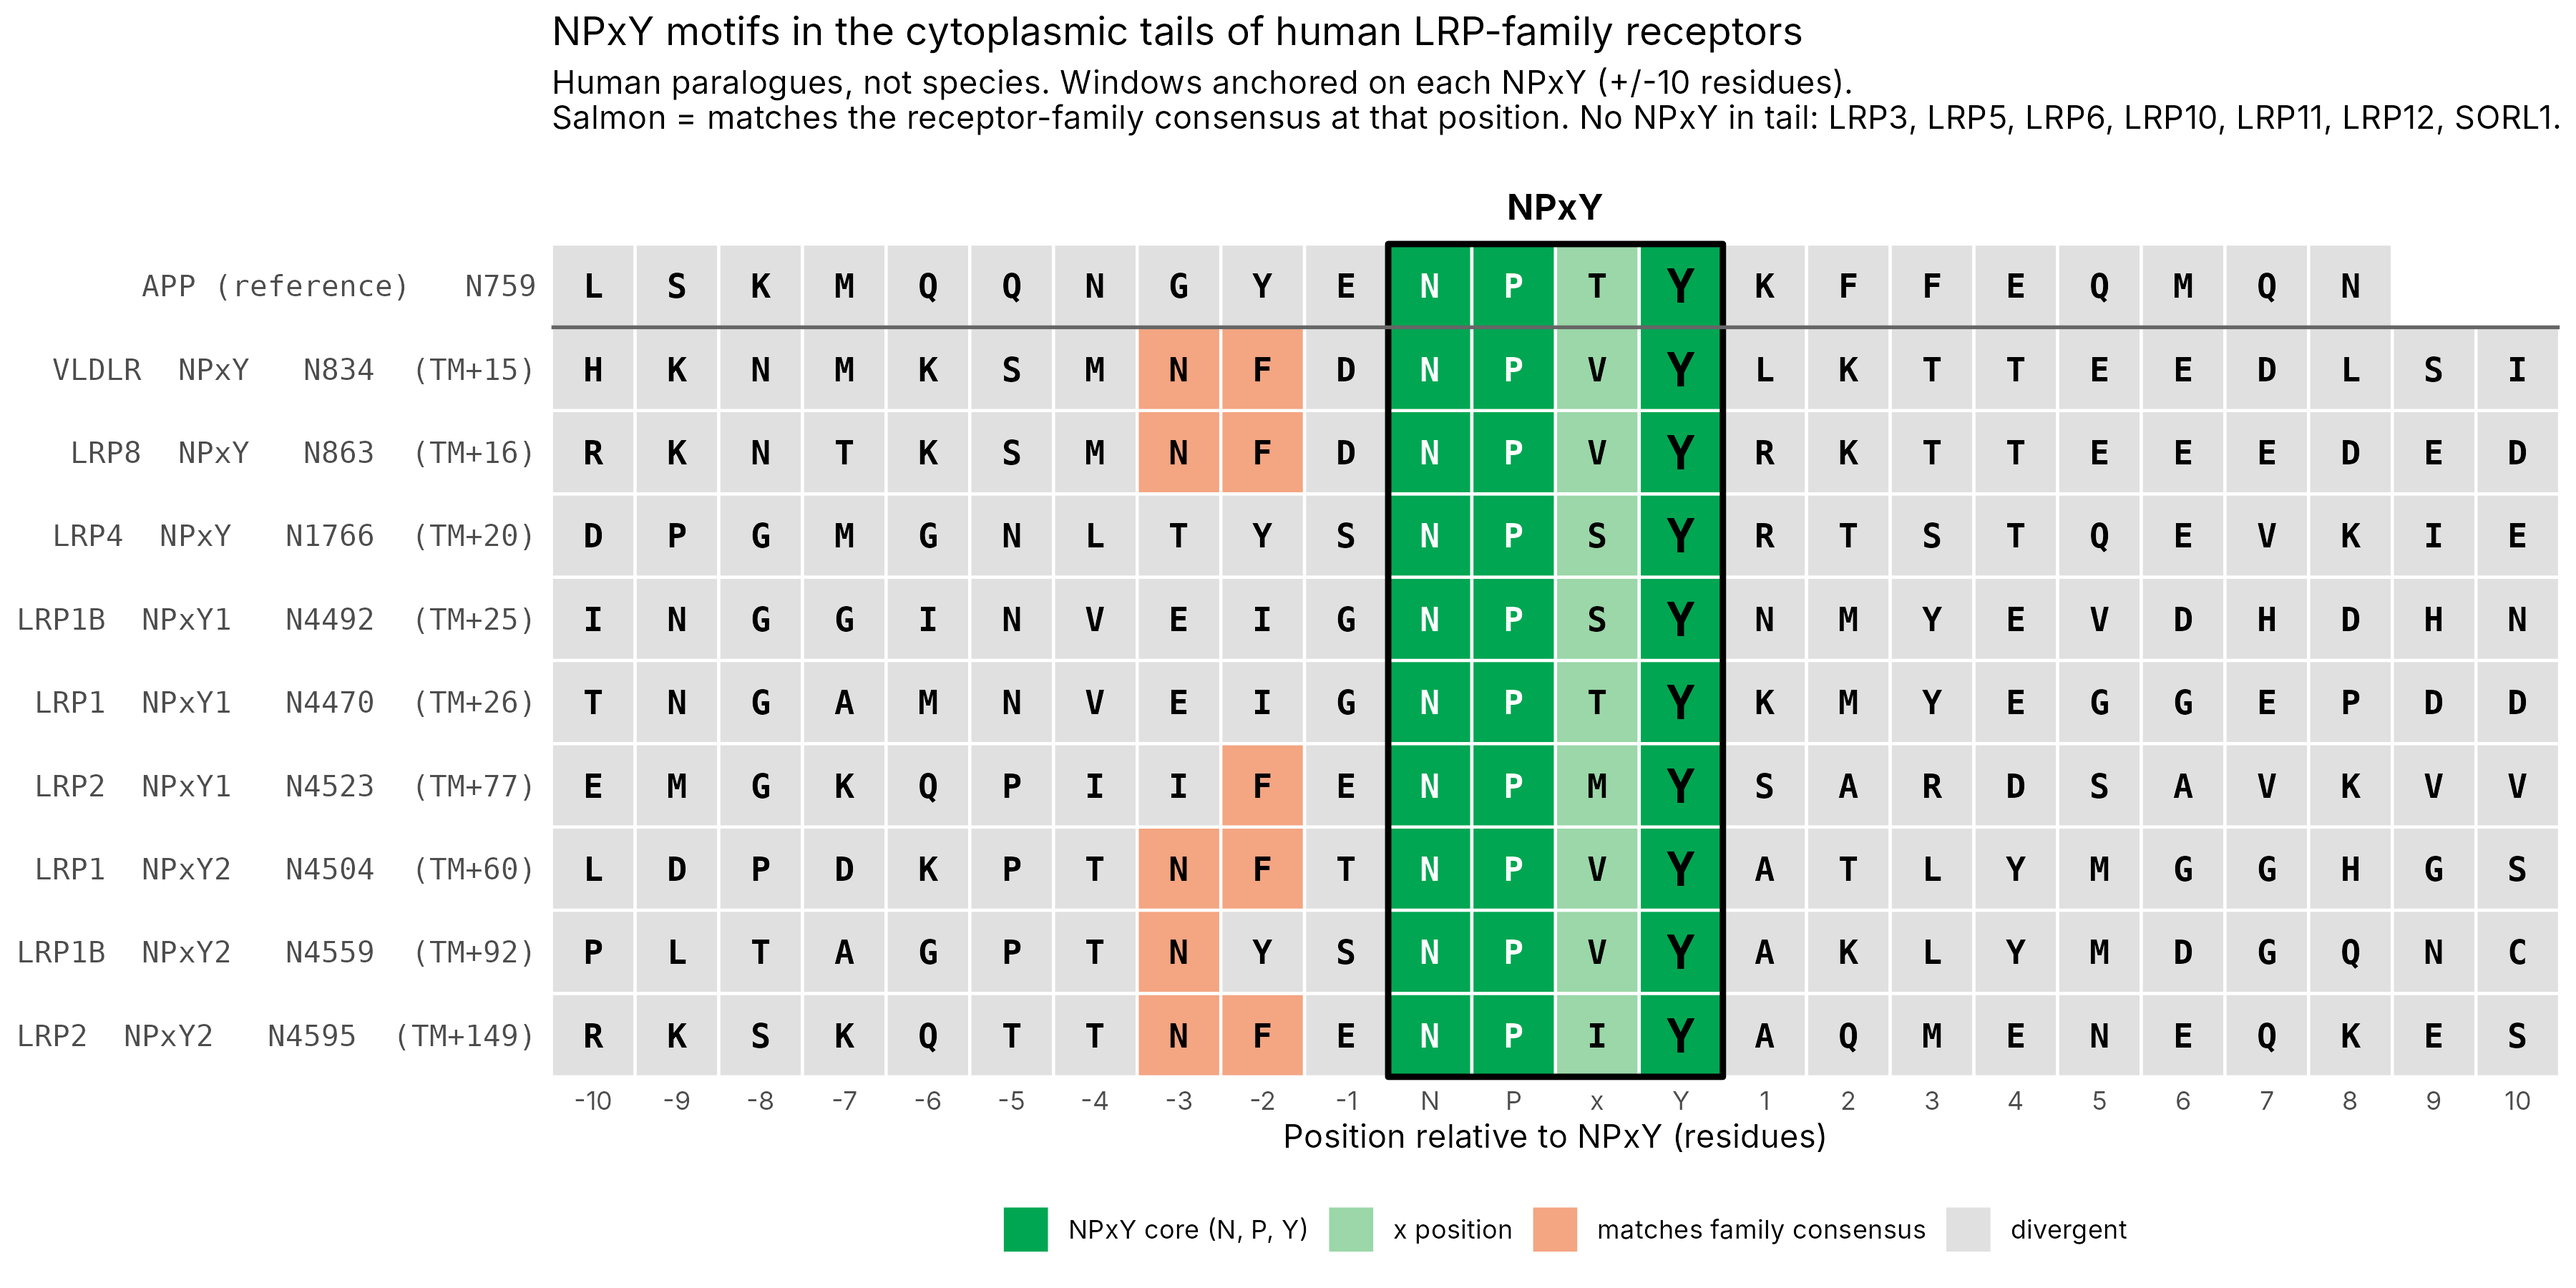
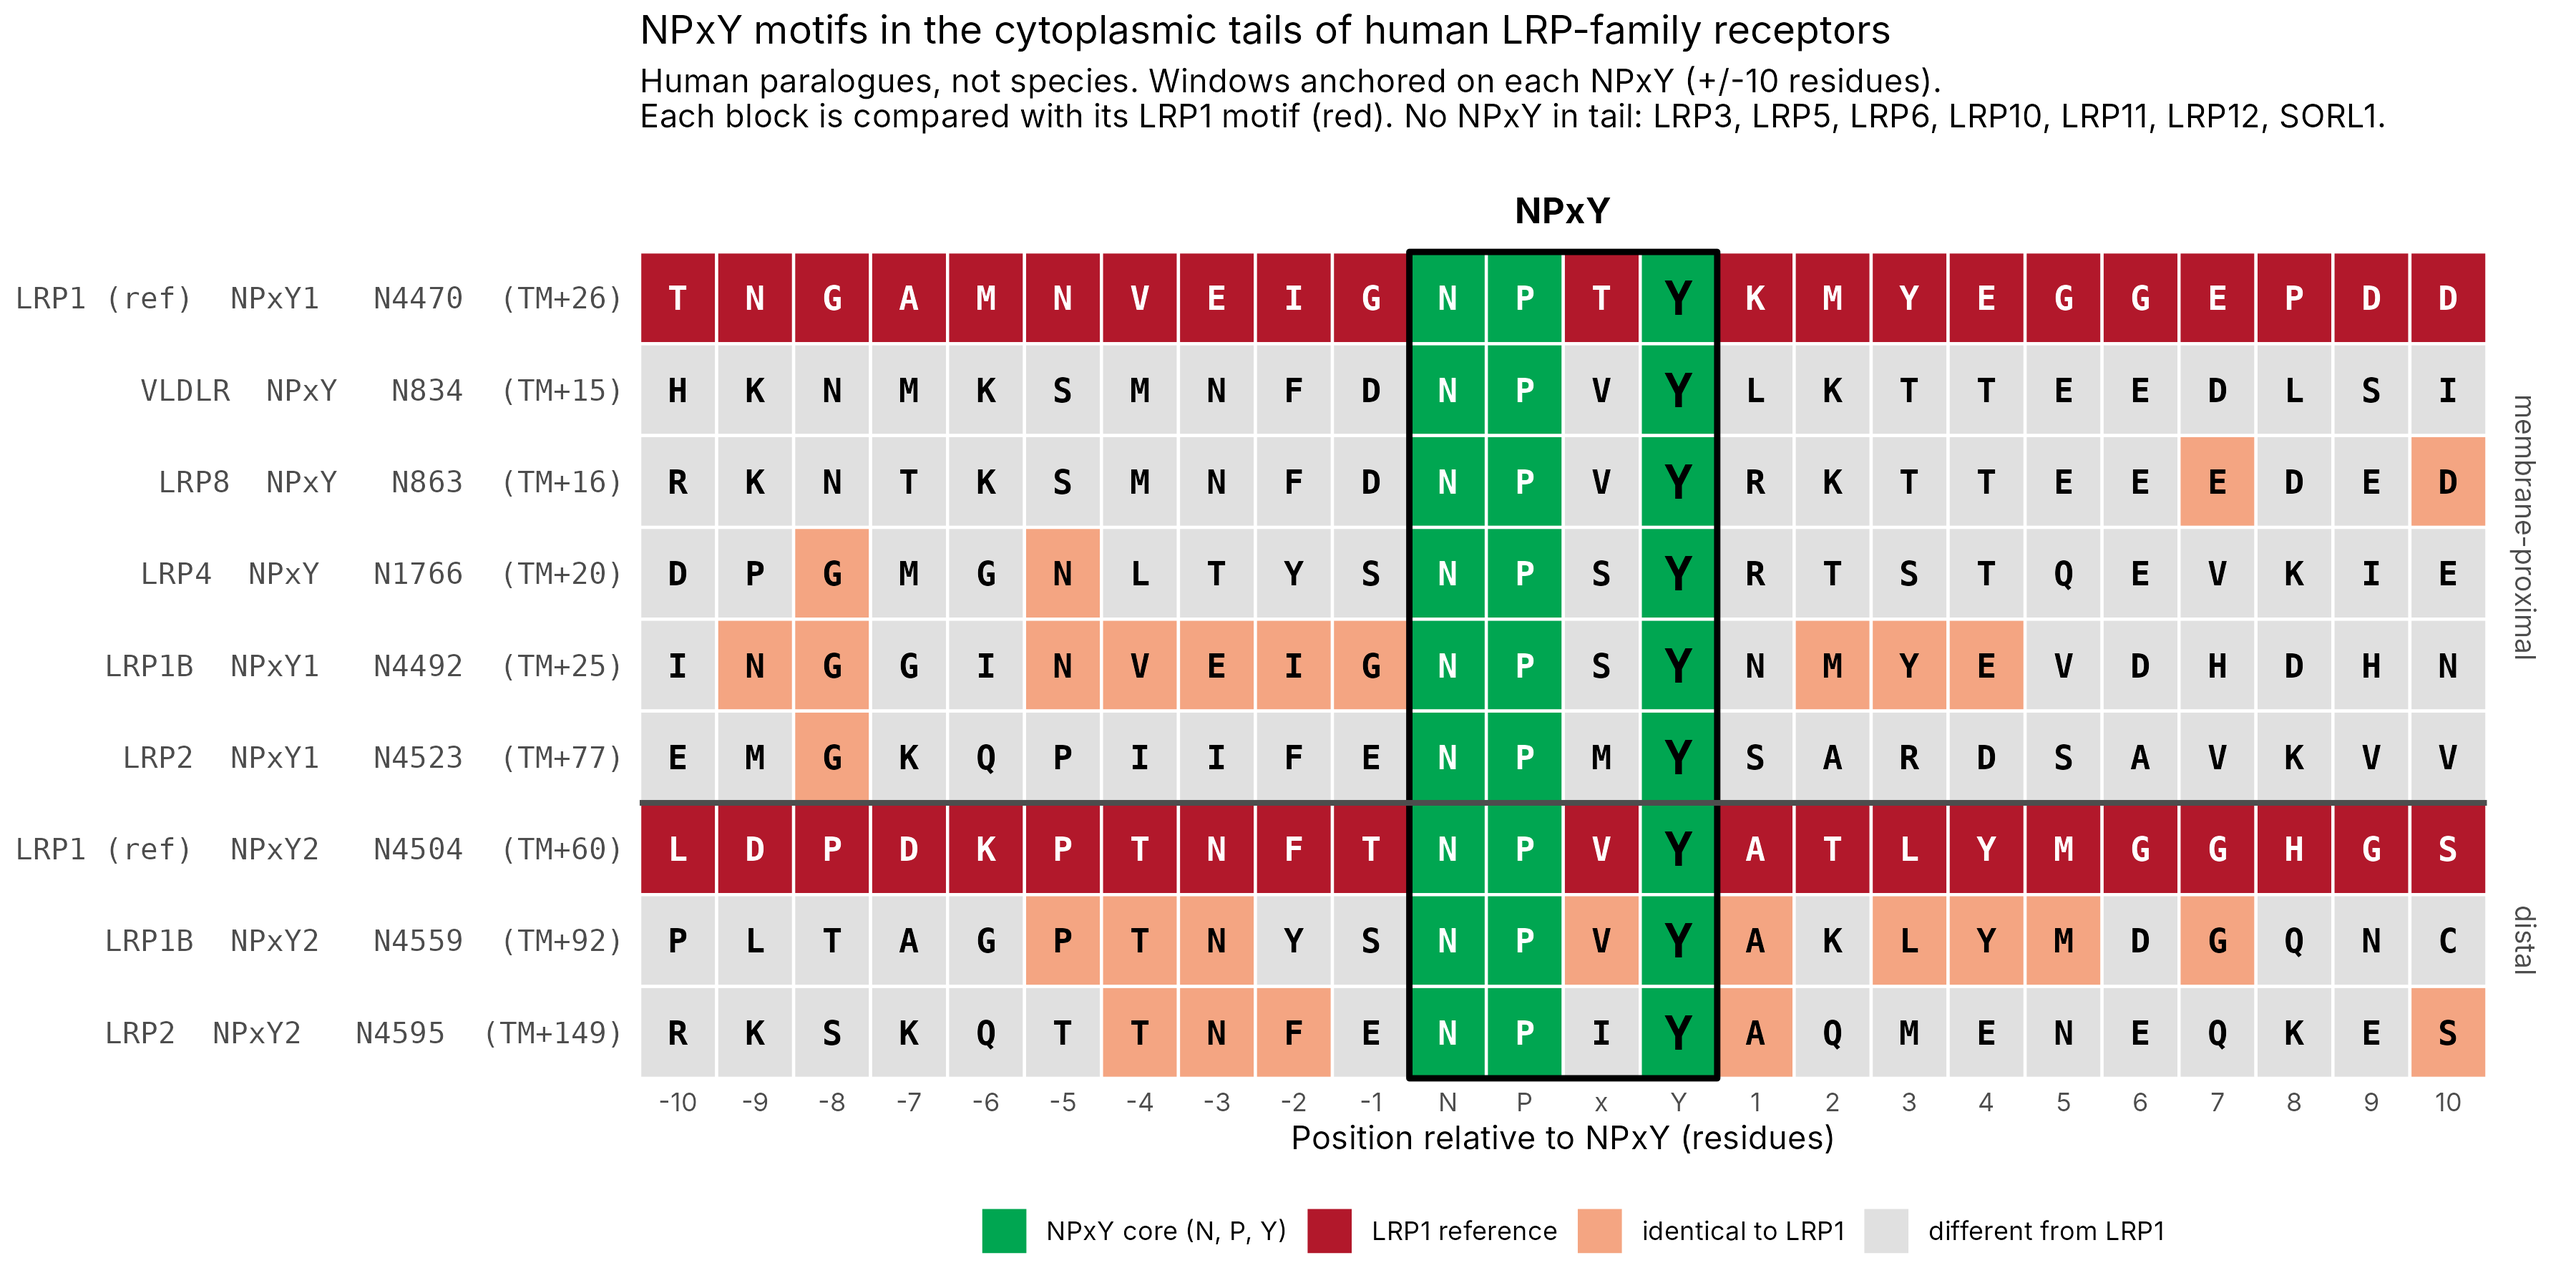
NPxY plot: remove APP, use LRP1 motifs as reference
Claude-Session: https://claude.ai/code/session_01DNpeWnaSHNG7EnKDYYP3oL

diff --git a/README.md b/README.md
@@ -74,7 +74,7 @@ Organism silhouettes are hand-drawn vectors (`draw_icons_svg.py`, SVG + PNG in `
 
 The cytoplasmic tails of 13 human receptors are compared with each other, not across species: LRP1, LRP1B, LRP2, LRP3, LRP4, LRP5, LRP6, LRP8, LRP10, LRP11, LRP12, VLDLR and SORL1. All sequences were checksum-verified against UniProt.
 
-**Method:** windows of ±10 residues are anchored on each NPxY that lies after the annotated transmembrane helix. Human APP N759PTY is shown as a reference row (`figures/fig8_LRP_NPxY.png`).
+**Method:** windows of ±10 residues are anchored on each NPxY that lies after the annotated transmembrane helix. Motifs are split into membrane-proximal and distal blocks, each compared with the corresponding LRP1 motif (N4470PTY and N4504PVY) as reference (`figures/fig8_LRP_NPxY.png`).
 
 **Receptors with NPxY:**
 - **Two motifs each:** LRP1, LRP1B and LRP2. The second, distal motif in all three is NPVY/NPIY preceded by N-F/N-x (an FxNPxY-like context).
